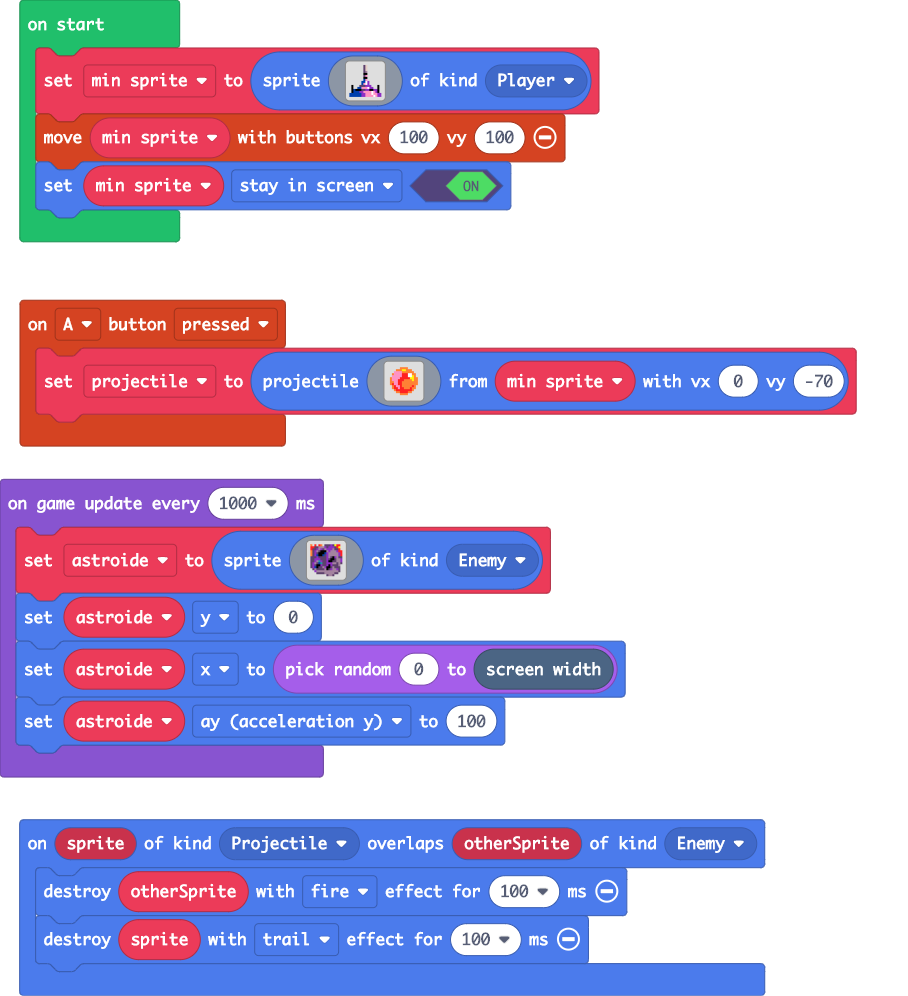
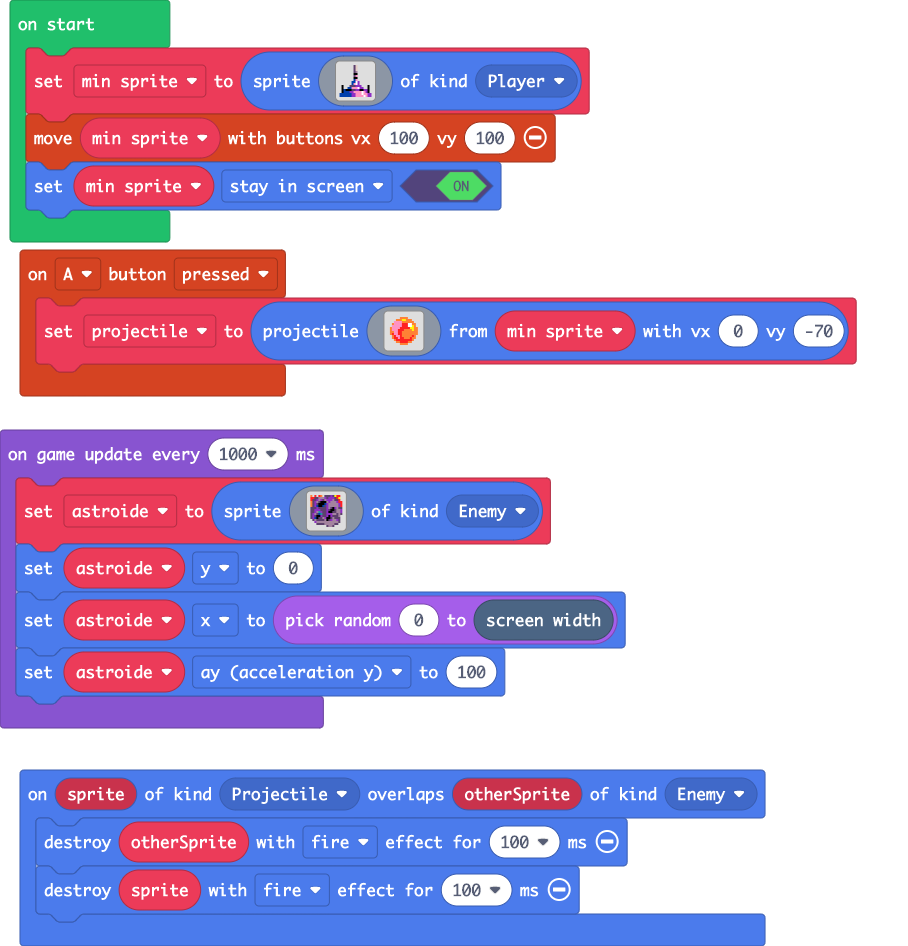
Update pxt.json, main.blocks, main.ts

diff --git a/main.ts b/main.ts
@@ -20,7 +20,7 @@ controller.A.onEvent(ControllerButtonEvent.Pressed, function () {
 })
 sprites.onOverlap(SpriteKind.Projectile, SpriteKind.Enemy, function (sprite, otherSprite) {
     otherSprite.destroy(effects.fire, 100)
-    sprite.destroy(effects.trail, 100)
+    sprite.destroy(effects.fire, 100)
 })
 let astroide: Sprite = null
 let projectile: Sprite = null
